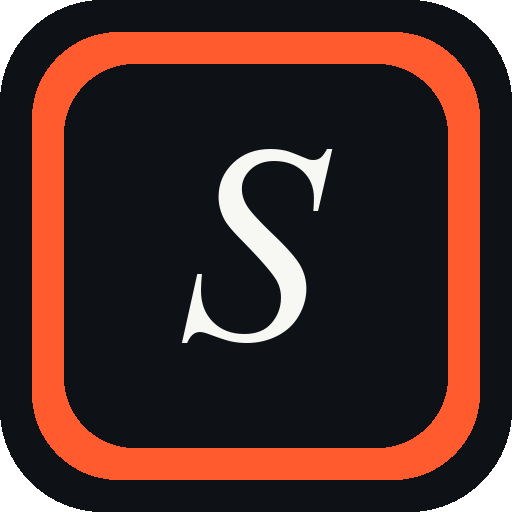
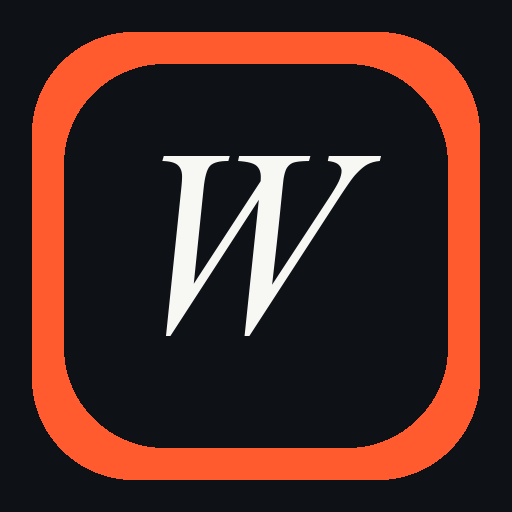
Rebrand product UI to Wecrew Ops / sovereign.ops.
Replace Sovereign naming in titles, nav, auth, landing, and favicon with Wecrew Ops branding while keeping the sovereign.ops.wecrew.in host.

diff --git a/src/routes/index.tsx b/src/routes/index.tsx
@@ -18,16 +18,16 @@ import { cn } from "@/lib/utils";
 export const Route = createFileRoute("/")({
   head: () => ({
     meta: [
-      { title: "Sovereign · Agentic Operations OS" },
+      { title: "Wecrew Ops" },
       {
         name: "description",
         content:
-          "Enterprise agent operations OS — command centre, passports, policy, evidence-backed RCA. Read-only. Self-hosted on your cluster.",
+          "Wecrew Ops · sovereign.ops — command centre, passports, policy, evidence-backed RCA. Read-only. Self-hosted on your cluster.",
       },
-      { property: "og:title", content: "Sovereign · Agentic Operations OS" },
+      { property: "og:title", content: "Wecrew Ops" },
       {
         property: "og:description",
-        content: "Command every agent estate from one secure operations plane.",
+        content: "Command every agent estate from one secure operations plane at sovereign.ops.wecrew.in.",
       },
     ],
   }),
@@ -124,7 +124,7 @@ const steps = [
   {
     n: "01",
     title: "Connect estates",
-    body: "Point Sovereign at your tenants, environments, and agent runtimes with scoped credentials.",
+    body: "Point Wecrew Ops at your tenants, environments, and agent runtimes with scoped credentials.",
   },
   {
     n: "02",
@@ -188,10 +188,10 @@ function LandingPage() {
         <div className="mx-auto flex h-14 max-w-6xl items-center justify-between gap-4 px-4 md:px-6">
           <Link to="/" className="flex items-center gap-2.5">
             <span className="flex size-8 items-center justify-center rounded-lg bg-brand-coral text-sm font-bold text-white">
-              S
+              W
             </span>
             <span className="text-[15px] font-semibold tracking-tight">
-              Sovereign <em className="not-italic text-brand-coral">Ops</em>
+              Wecrew <em className="not-italic text-brand-coral">Ops</em>
             </span>
           </Link>
           <nav className="hidden items-center gap-5 text-sm text-[#5c5a56] lg:flex" aria-label="Primary">
@@ -245,7 +245,7 @@ function LandingPage() {
               <div className="flex flex-wrap gap-3">
                 <Button asChild size="lg" className="bg-brand-coral text-white hover:bg-brand-coral/90">
                   <Link to="/signup">
-                    Start using Sovereign
+                    Start using Wecrew Ops
                     <ArrowRight className="size-4" aria-hidden />
                   </Link>
                 </Button>
@@ -270,7 +270,7 @@ function LandingPage() {
             {/* Product preview — Copilot-style live mock */}
             <div
               className="relative overflow-hidden rounded-2xl border border-[#ddd6c8] bg-[#0e1116] text-[#f7f7f4] shadow-[0_24px_80px_-24px_rgba(14,17,22,0.55)]"
-              aria-label="Animated preview of Sovereign Command Centre"
+              aria-label="Animated preview of Wecrew Ops Command Centre"
             >
               <div className="flex items-center justify-between border-b border-white/10 px-4 py-2.5 text-[11px]">
                 <span className="font-mono text-white/55">sovereign.ops.wecrew.in</span>
@@ -295,7 +295,7 @@ function LandingPage() {
                   </ul>
                   <div className="mt-3 flex gap-2">
                     <span className="flex size-7 shrink-0 items-center justify-center rounded-md bg-brand-coral text-xs font-bold text-white">
-                      S
+                      W
                     </span>
                     <div className="space-y-2">
                       <p className="leading-relaxed text-white/90">
@@ -360,10 +360,10 @@ function LandingPage() {
             <div className="max-w-2xl space-y-3">
               <p className="text-sm font-medium text-brand-coral">Product tour</p>
               <h2 className="font-display text-3xl font-semibold tracking-tight md:text-4xl">
-                See Sovereign at work
+                See Wecrew Ops at work
               </h2>
               <p className="text-[#5c5a56]">
-                Four of the jobs operators hand to Sovereign every day — each against the screen it
+                Four of the jobs operators hand to Wecrew Ops every day — each against the screen it
                 actually runs on.
               </p>
             </div>
@@ -400,7 +400,7 @@ function LandingPage() {
                   </p>
                   <p className="text-sm text-[#1c1c1c]">{active.question}</p>
                   <p className="text-xs font-medium uppercase tracking-[0.12em] text-brand-coral">
-                    Sovereign
+                    Wecrew Ops
                   </p>
                   <p className="text-sm leading-relaxed text-[#1c1c1c]">{active.answer}</p>
                   <ul className="space-y-1 text-xs text-[#5c5a56]">
@@ -418,7 +418,7 @@ function LandingPage() {
                   Live console — {active.label}
                 </figcaption>
                 <div className="space-y-2 font-mono text-[11px] leading-relaxed text-white/75">
-                  <p className="text-brand-coral">sovereign › {active.id}</p>
+                  <p className="text-brand-coral">sovereign.ops › {active.id}</p>
                   <p>{active.question}</p>
                   <p className="text-white/90">{active.answer}</p>
                 </div>
@@ -515,7 +515,7 @@ function LandingPage() {
                 Enterprise agents without compromising control
               </h2>
               <p className="text-[#5c5a56]">
-                Sovereign ships as containers you run yourself. Passports, evidence, and audit stay
+                Wecrew Ops ships as containers you run yourself. Passports, evidence, and audit stay
                 inside the infrastructure you already govern.
               </p>
             </div>
@@ -577,7 +577,7 @@ function LandingPage() {
                 variant="outline"
                 className="border-white/20 bg-transparent text-white hover:bg-white/10"
               >
-                <a href="mailto:support@wecrew.in?subject=Sovereign%20Ops%20enquiry">Talk to our team</a>
+                <a href="mailto:support@wecrew.in?subject=Wecrew%20Ops%20enquiry">Talk to our team</a>
               </Button>
             </div>
             <div className="space-y-1 text-sm text-white/65">
@@ -604,10 +604,10 @@ function LandingPage() {
           <div className="space-y-4">
             <div className="flex items-center gap-2.5">
               <span className="flex size-8 items-center justify-center rounded-lg bg-brand-coral text-sm font-bold text-white">
-                S
+                W
               </span>
               <span className="text-[15px] font-semibold tracking-tight">
-                Sovereign <em className="not-italic text-brand-coral">Ops</em>
+                Wecrew <em className="not-italic text-brand-coral">Ops</em>
               </span>
             </div>
             <p className="max-w-sm text-sm leading-relaxed text-[#5c5a56]">
@@ -666,7 +666,7 @@ function LandingPage() {
         </div>
         <div className="border-t border-[#e8e6e0]">
           <div className="mx-auto flex max-w-6xl flex-wrap items-center justify-between gap-3 px-4 py-4 text-xs text-[#5c5a56] md:px-6">
-            <p>© 2026 Wecrew · Agentic Operations OS</p>
+            <p>© 2026 Wecrew Ops · sovereign.ops</p>
             <a href="#security" className="hover:text-[#1c1c1c]">
               Security overview
             </a>

diff --git a/src/routes/_shell.models.tsx b/src/routes/_shell.models.tsx
@@ -15,13 +15,13 @@ import { cn } from "@/lib/utils";
 export const Route = createFileRoute("/_shell/models")({
   head: () => ({
     meta: [
-      { title: "Model Gateway · Sovereign Agentic Operations OS" },
+      { title: "Model Gateway · Wecrew Ops" },
       {
         name: "description",
         content:
           "Provider health, latency, data residency, cost tier, fallback order and per-tenant allow-lists for every model routed through the sovereign gateway.",
       },
-      { property: "og:title", content: "Model Gateway · Sovereign Agentic Operations OS" },
+      { property: "og:title", content: "Model Gateway · Wecrew Ops" },
       {
         property: "og:description",
         content: "Vendor-neutral model routing with residency, latency and tenant allow-list controls.",
@@ -174,7 +174,7 @@ function ModelGateway() {
                 live: true,
               },
               { label: "Gateway rps", value: liveRps, hint: "live", live: true },
-              { label: "Sovereign", value: sovereign, hint: "on-prem" },
+              { label: "On-prem", value: sovereign, hint: "sovereign.ops" },
               {
                 label: "Blocked",
                 value: decisionCounts.blocked,

diff --git a/src/routes/__root.tsx b/src/routes/__root.tsx
@@ -97,11 +97,11 @@ export const Route = createRootRouteWithContext<{ queryClient: QueryClient }>()(
     meta: [
       { charSet: "utf-8" },
       { name: "viewport", content: "width=device-width, initial-scale=1" },
-      { title: "Sovereign Agentic Operations OS" },
-      { name: "description", content: "Read-only multi-tenant Agent OS for regulated hybrid infrastructure." },
-      { name: "author", content: "Sovereign" },
-      { property: "og:title", content: "Sovereign Agentic Operations OS" },
-      { property: "og:description", content: "Vendor-neutral agent operations command centre." },
+      { title: "Wecrew Ops" },
+      { name: "description", content: "Wecrew Ops · sovereign.ops — read-only multi-tenant agent operations for regulated hybrid infrastructure." },
+      { name: "author", content: "Wecrew Ops" },
+      { property: "og:title", content: "Wecrew Ops" },
+      { property: "og:description", content: "Vendor-neutral agent operations command centre at sovereign.ops.wecrew.in." },
       { property: "og:type", content: "website" },
       { name: "twitter:card", content: "summary_large_image" },
     ],

diff --git a/src/routes/signup.tsx b/src/routes/signup.tsx
@@ -14,11 +14,11 @@ import { cn } from "@/lib/utils";
 export const Route = createFileRoute("/signup")({
   head: () => ({
     meta: [
-      { title: "Create account · Sovereign Ops" },
+      { title: "Create account · Wecrew Ops" },
       {
         name: "description",
         content:
-          "Create a Sovereign Ops account — vendor-neutral agent operations for regulated hybrid estates.",
+          "Create a Wecrew Ops account — vendor-neutral agent operations for regulated hybrid estates.",
       },
     ],
   }),
@@ -229,7 +229,7 @@ function SignUpPage() {
                 </svg>
               </div>
               <h3 className="font-display mb-3 text-3xl font-normal text-[#1c1c1c]">You&apos;re in</h3>
-              <p className="text-[#5c5a56]">Opening Sovereign Command Centre…</p>
+              <p className="text-[#5c5a56]">Opening Wecrew Ops Command Centre…</p>
             </div>
           )}
 

diff --git a/src/routes/login.tsx b/src/routes/login.tsx
@@ -13,11 +13,11 @@ import {
 export const Route = createFileRoute("/login")({
   head: () => ({
     meta: [
-      { title: "Sign in · Sovereign Ops" },
+      { title: "Sign in · Wecrew Ops" },
       {
         name: "description",
         content:
-          "Sign in to Sovereign Agentic Operations OS — read-only multi-tenant agent operations for regulated hybrid infrastructure.",
+          "Sign in to Wecrew Ops — read-only multi-tenant agent operations for regulated hybrid infrastructure.",
       },
     ],
   }),
@@ -101,7 +101,7 @@ function SignInPage() {
           </AuthSubmit>
           <AuthDemoButton onClick={enterDemo} />
           <p className="mt-4 text-center font-mono text-[10.5px] tracking-wide text-[#8a8680]">
-            Protected internal console · Sovereign Agentic Operations OS
+            Protected internal console · Wecrew Ops
           </p>
         </form>
       }

diff --git a/src/routes/_shell.sla-admin.tsx b/src/routes/_shell.sla-admin.tsx
@@ -28,18 +28,18 @@ import {
 import type { RiskLevel } from "@/data/types";
 import { cn } from "@/lib/utils";
 
-const ACTOR = "j.lindqvist@sovereign.ops";
+const ACTOR = "support@wecrew.in";
 
 export const Route = createFileRoute("/_shell/sla-admin")({
   head: () => ({
     meta: [
-      { title: "SLA Administration · Sovereign Agentic Operations OS" },
+      { title: "SLA Administration · Wecrew Ops" },
       {
         name: "description",
         content:
           "Configure approval SLA risk windows, the at-risk alert threshold and per-tenant SLA overrides with validation and a full change audit trail.",
       },
-      { property: "og:title", content: "SLA Administration · Sovereign Agentic Operations OS" },
+      { property: "og:title", content: "SLA Administration · Wecrew Ops" },
       {
         property: "og:description",
         content:

diff --git a/src/components/ops/dual-sidebar.tsx b/src/components/ops/dual-sidebar.tsx
@@ -40,7 +40,7 @@ export function DualSidebar({
       <Link
         to="/command"
         className="flex size-9 shrink-0 items-center justify-center rounded-xl bg-brand-coral text-white shadow-md"
-        aria-label="Sovereign home"
+        aria-label="Wecrew Ops home"
         onClick={() => onMobileOpenChange(false)}
       >
         <Cpu className="size-4" aria-hidden="true" />
@@ -48,10 +48,10 @@ export function DualSidebar({
       {expanded && (
         <div className="min-w-0">
           <p className="truncate text-sm font-semibold tracking-tight text-sidebar-accent-foreground">
-            Sovereign
+            Wecrew Ops
           </p>
           <p className="truncate text-[10px] font-semibold uppercase tracking-[0.16em] text-sidebar-foreground/55">
-            Agentic Ops OS
+            sovereign.ops
           </p>
         </div>
       )}

diff --git a/src/routes/_shell.tools.tsx b/src/routes/_shell.tools.tsx
@@ -18,13 +18,13 @@ import { cn } from "@/lib/utils";
 export const Route = createFileRoute("/_shell/tools")({
   head: () => ({
     meta: [
-      { title: "Tool & MCP Registry · Sovereign Agentic Operations OS" },
+      { title: "Tool & MCP Registry · Wecrew Ops" },
       {
         name: "description",
         content:
           "Registry of every MCP tool available to the agent fleet: owner, version, permissions, security scan status, call volume, error rate, external access and trust score.",
       },
-      { property: "og:title", content: "Tool & MCP Registry · Sovereign Agentic Operations OS" },
+      { property: "og:title", content: "Tool & MCP Registry · Wecrew Ops" },
       {
         property: "og:description",
         content: "Governed MCP tool inventory with scan status, trust scores and per-tool telemetry.",

diff --git a/src/components/ops/right-inspector.tsx b/src/components/ops/right-inspector.tsx
@@ -280,7 +280,7 @@ function AgentInspector() {
       {pathname.startsWith(`/agents/${agent.id}`) ? (
         <p className="text-[11px] leading-relaxed text-sidebar-foreground/55">
           Full passport is open on the canvas. This console is read-only — lifecycle actions are
-          managed outside Sovereign.
+          managed outside Wecrew Ops.
         </p>
       ) : (
         <section className="space-y-2">
@@ -295,7 +295,7 @@ function AgentInspector() {
             </Link>
           </Button>
           <p className="text-[11px] leading-relaxed text-sidebar-foreground/55">
-            This console is read-only. Lifecycle actions are managed outside Sovereign.
+            This console is read-only. Lifecycle actions are managed outside Wecrew Ops.
           </p>
         </section>
       )}

diff --git a/src/routes/_shell.command.tsx b/src/routes/_shell.command.tsx
@@ -34,13 +34,13 @@ import {
 export const Route = createFileRoute("/_shell/command")({
   head: () => ({
     meta: [
-      { title: "Global Command Centre · Sovereign Agentic Operations OS" },
+      { title: "Global Command Centre · Wecrew Ops" },
       {
         name: "description",
         content:
           "Cross-tenant command centre for agent fleet health, incidents, SLA risk, security signals and token spend across regulated hybrid infrastructure.",
       },
-      { property: "og:title", content: "Global Command Centre · Sovereign Agentic Operations OS" },
+      { property: "og:title", content: "Global Command Centre · Wecrew Ops" },
       {
         property: "og:description",
         content: "Fleet health, incidents, SLA risk, security signals and token spend in one console.",

diff --git a/src/routes/_shell.agents.index.tsx b/src/routes/_shell.agents.index.tsx
@@ -18,13 +18,13 @@ import { cn } from "@/lib/utils";
 export const Route = createFileRoute("/_shell/agents/")({
   head: () => ({
     meta: [
-      { title: "Agent Registry · Sovereign Agentic Operations OS" },
+      { title: "Agent Registry · Wecrew Ops" },
       {
         name: "description",
         content:
           "Searchable registry of supervisor, platform, network, database, security and reasoning agents with trust score, autonomy, model and owner.",
       },
-      { property: "og:title", content: "Agent Registry · Sovereign Agentic Operations OS" },
+      { property: "og:title", content: "Agent Registry · Wecrew Ops" },
       {
         property: "og:description",
         content: "Trust score, autonomy, model, tenant, environment and owner for every registered agent.",

diff --git a/src/routes/_shell.policies.tsx b/src/routes/_shell.policies.tsx
@@ -28,13 +28,13 @@ import { cn } from "@/lib/utils";
 export const Route = createFileRoute("/_shell/policies")({
   head: () => ({
     meta: [
-      { title: "Policy Management · Sovereign Agentic Operations OS" },
+      { title: "Policy Management · Wecrew Ops" },
       {
         name: "description",
         content:
           "Editable policy simulation rules, approval gates and dual-control queues governing every agent intent across tenant estates.",
       },
-      { property: "og:title", content: "Policy Management · Sovereign Agentic Operations OS" },
+      { property: "og:title", content: "Policy Management · Wecrew Ops" },
       {
         property: "og:description",
         content: "Simulate, edit and enforce approval, deny and time-window policies for agent intents.",
